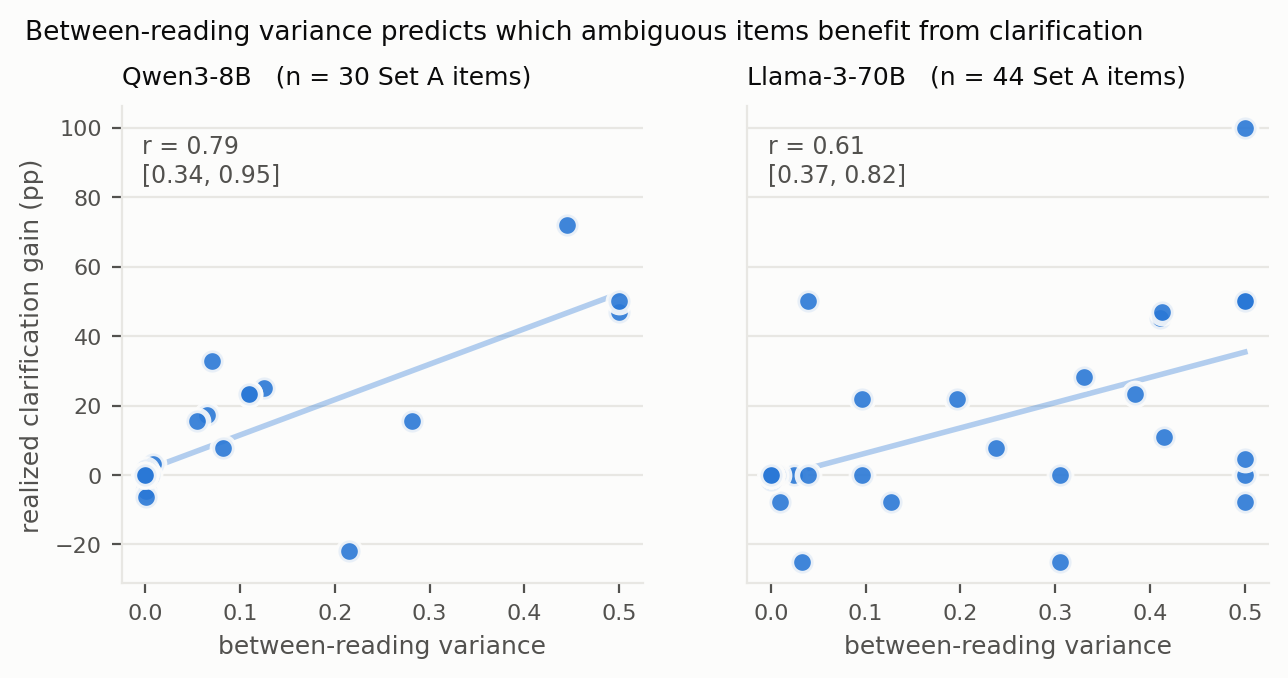
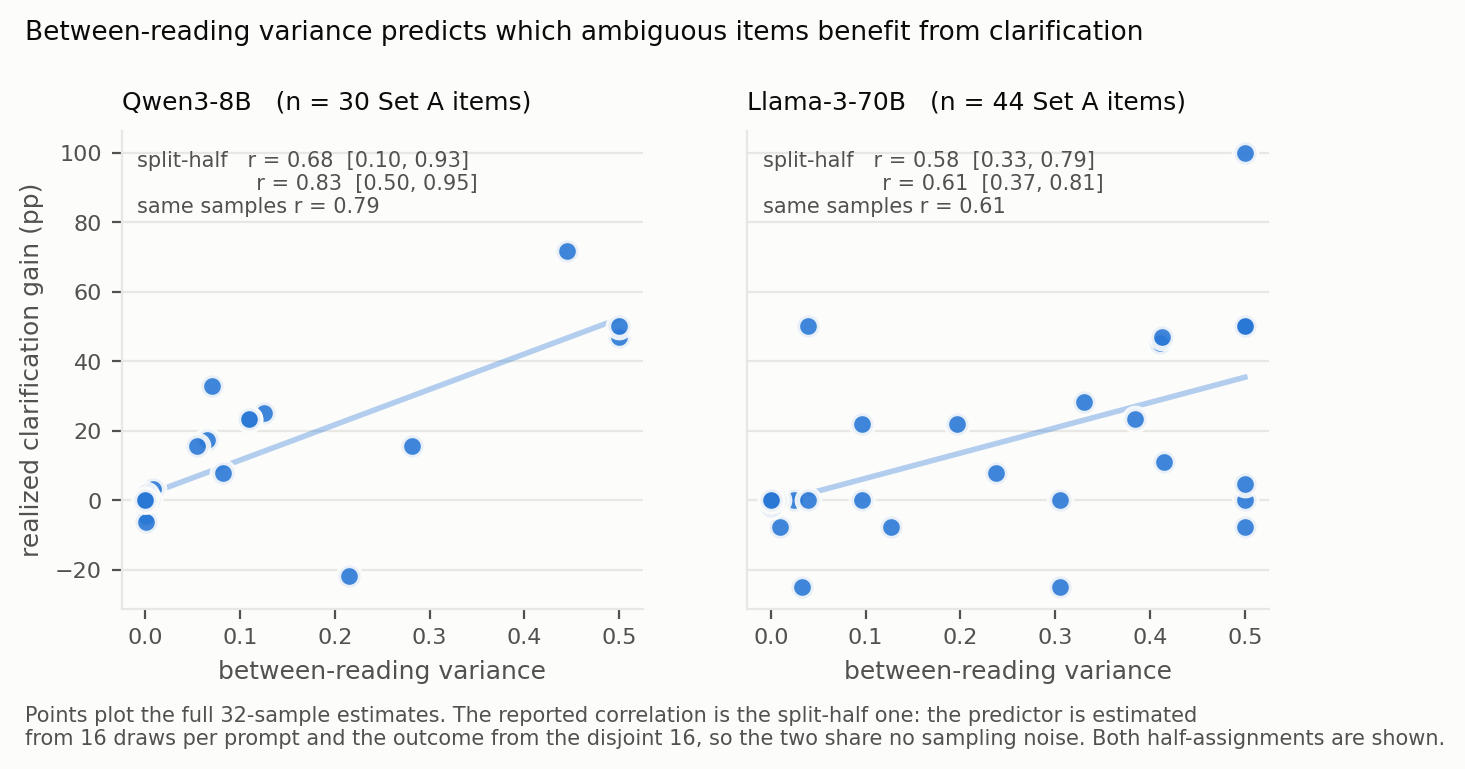
Report split-half correlation in Figure 2
Figure 2 now annotates both split-half estimates and the same-sample one,
with a note that the split-half figure is the reported result.

Claude-Session: https://claude.ai/code/session_01MmCDPJMwFHSRa5ZBS8GHPt

diff --git a/clarifying-questions-eb/figures/make_figures.py b/clarifying-questions-eb/figures/make_figures.py
@@ -20,6 +20,11 @@ matplotlib.use("Agg")
 import matplotlib.pyplot as plt
 import numpy as np
 
+import sys
+
+sys.path.insert(0, str(Path(__file__).resolve().parent.parent))
+from ec import split_half  # noqa: E402
+
 ROOT = Path(__file__).resolve().parent.parent
 SCAN = ROOT / "scan_results"
 OUT = Path(__file__).resolve().parent
@@ -158,19 +163,28 @@ def fig2_ec_scatter():
         grid = np.linspace(x.min(), x.max(), 2)
         ax.plot(grid, slope * grid + intercept, color=SET_A, linewidth=2, alpha=0.35, zorder=2)
 
-        s = ec_summary(slug)
-        r = s["correlations"]["setA_between_variance_vs_gain"]
-        ci = s["confidence_intervals"]["correlations"]["setA_between_variance_vs_gain"]
-        ax.annotate(f"r = {r:.2f}\n[{ci['low']:.2f}, {ci['high']:.2f}]",
-                    xy=(0.04, 0.94), xycoords="axes fraction", va="top",
-                    fontsize=8.5, color=INK_2)
+        # Split-half is the reported estimate: predictor and outcome come from
+        # disjoint halves of the same draws, so they share no sampling noise.
+        sh = split_half.analyze(str(SCAN / f"ec_{slug}_results.jsonl"))
+        a, b = sh["split_first_half_predictor"], sh["split_second_half_predictor"]
+        ax.annotate(
+            f"split-half   r = {a['r']:.2f}  [{a['low']:.2f}, {a['high']:.2f}]\n"
+            f"                  r = {b['r']:.2f}  [{b['low']:.2f}, {b['high']:.2f}]\n"
+            f"same samples r = {sh['same_samples']['r']:.2f}",
+            xy=(0.03, 0.96), xycoords="axes fraction", va="top",
+            fontsize=7.5, color=INK_2)
         ax.set_title(f"{name}   (n = {len(recs)} Set A items)", fontsize=9, color=INK,
                      loc="left", pad=8)
         ax.set_xlabel("between-reading variance")
         tidy(ax, ticks=(ax is axes[0]))
     axes[0].set_ylabel("realized clarification gain (pp)")
     fig.suptitle("Between-reading variance predicts which ambiguous items benefit from clarification",
-                 fontsize=9.5, color=INK, x=0.06, ha="left", y=1.02)
+                 fontsize=9.5, color=INK, x=0.06, ha="left", y=1.06)
+    fig.text(0.06, -0.11,
+             "Points plot the full 32-sample estimates. The reported correlation is the split-half one: "
+             "the predictor is estimated\nfrom 16 draws per prompt and the outcome from the disjoint 16, "
+             "so the two share no sampling noise. Both half-assignments are shown.",
+             fontsize=7.5, color=INK_2, ha="left")
     save(fig, "fig2_ec_between_vs_gain", "scan_results/ec_*_results.jsonl (per item) + .summary.json")
 
 
